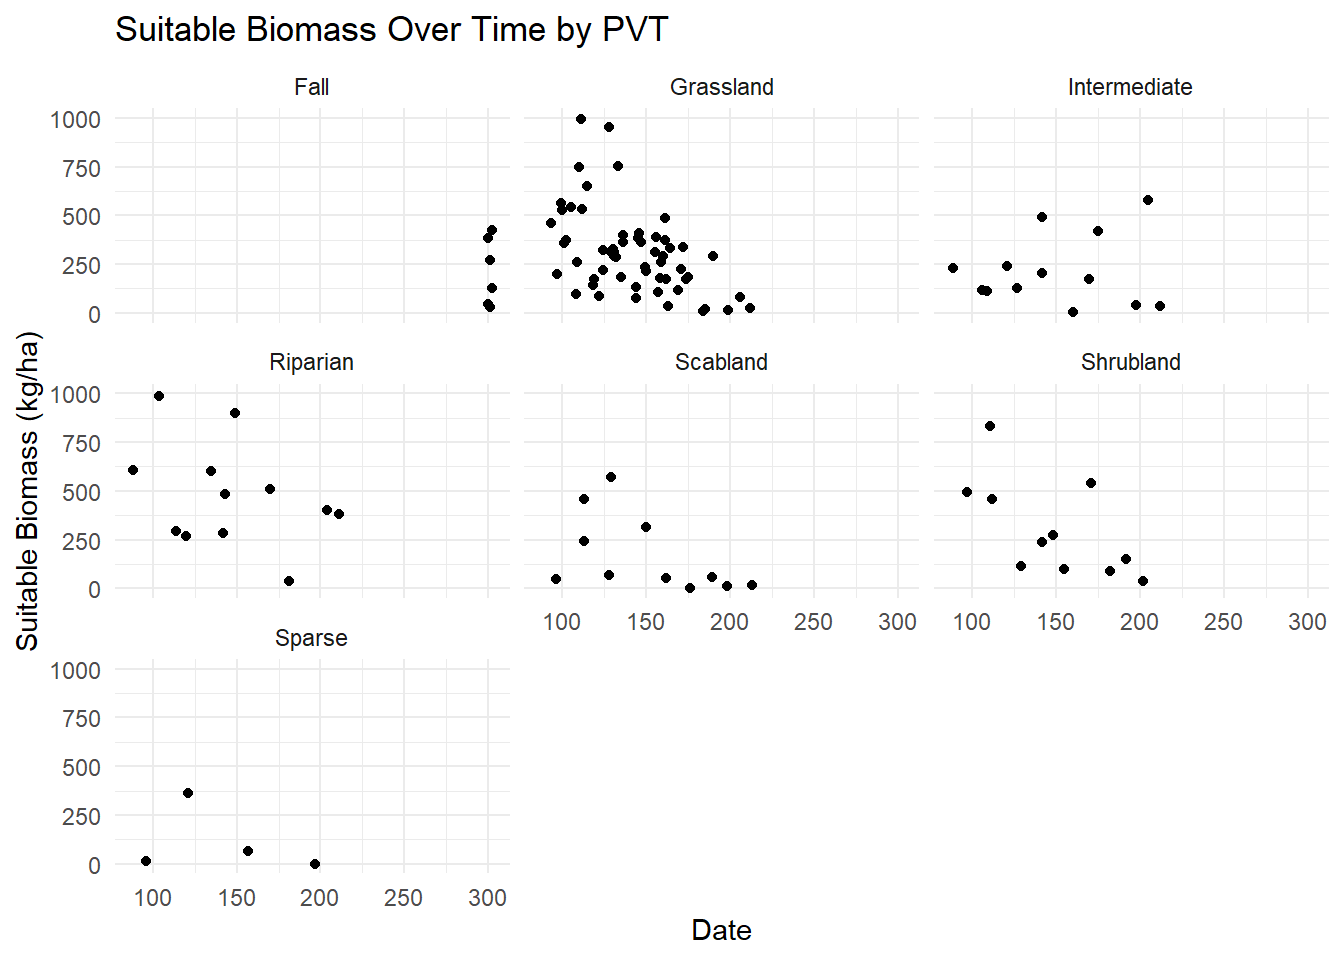
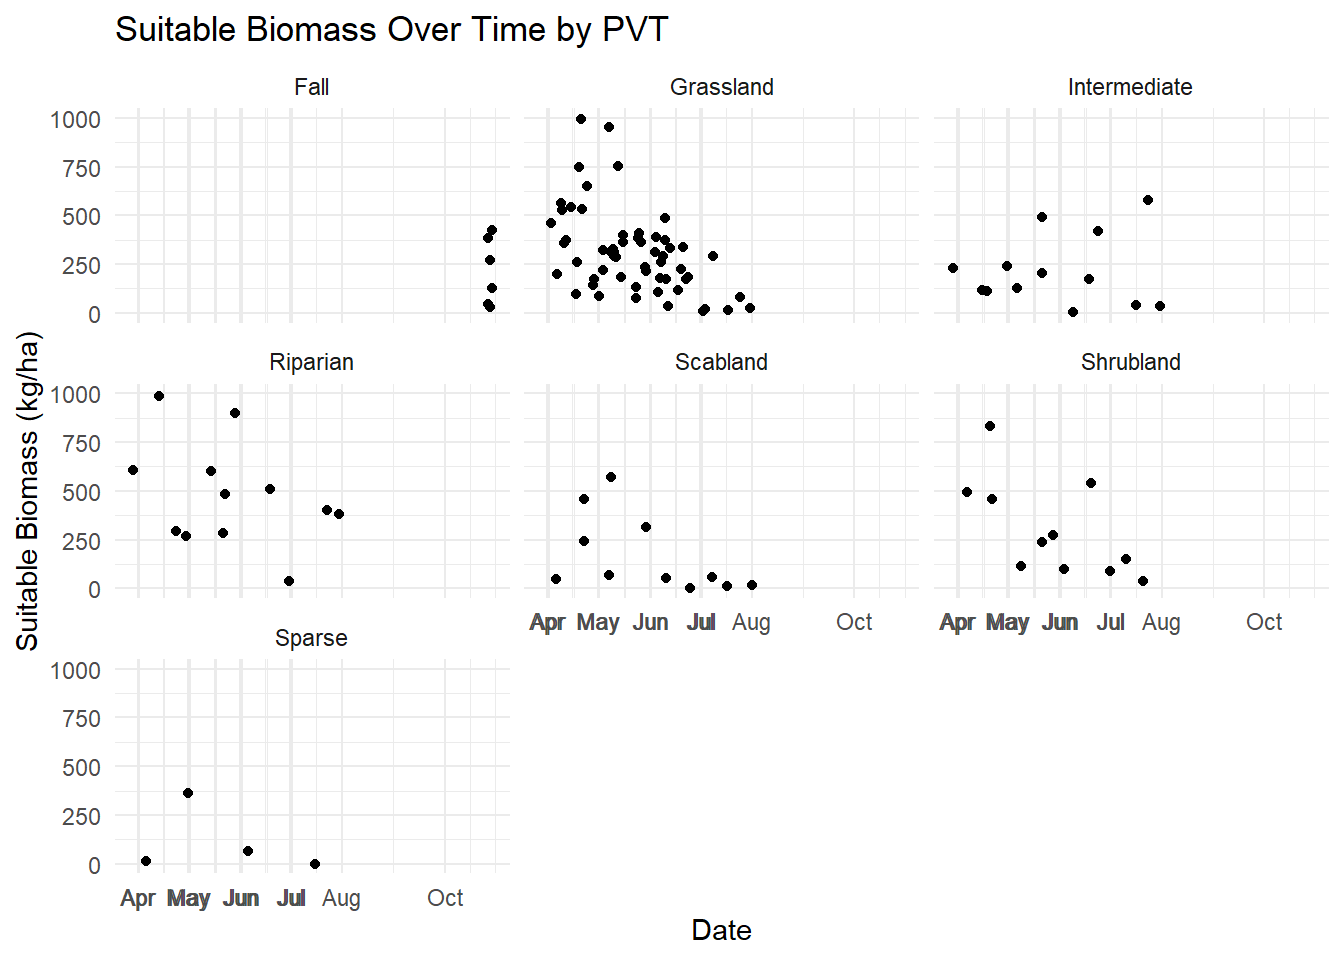
edited axis labels

Changed region(s): [[0.375, 0.625, 1.0, 0.6562], [0.0938, 0.9062, 0.2812, 0.9688], [0.2812, 0.9062, 0.375, 0.9688]]

diff --git a/docs/posts/post-with-code/suitable.biomass.plots.html b/docs/posts/post-with-code/suitable.biomass.plots.html
@@ -210,17 +210,29 @@ pre > code.sourceCode > span > a:first-child::before { text-decoration: underlin
 <span id="cb2-7"><a href="#cb2-7" aria-hidden="true" tabindex="-1"></a>  <span class="fu">select</span>(<span class="sc">-</span>PVT, <span class="sc">-</span>PVTedit) <span class="sc">%&gt;%</span> </span>
 <span id="cb2-8"><a href="#cb2-8" aria-hidden="true" tabindex="-1"></a>  <span class="fu">rename</span>(<span class="at">PVT =</span> PVT_Observed)</span>
 <span id="cb2-9"><a href="#cb2-9" aria-hidden="true" tabindex="-1"></a></span>
-<span id="cb2-10"><a href="#cb2-10" aria-hidden="true" tabindex="-1"></a><span class="fu">ggplot</span>(plot.totals, <span class="fu">aes</span>(<span class="at">x =</span> Julian_Day, <span class="at">y =</span> SuitableBiomass)) <span class="sc">+</span></span>
-<span id="cb2-11"><a href="#cb2-11" aria-hidden="true" tabindex="-1"></a>  <span class="fu">geom_point</span>() <span class="sc">+</span></span>
-<span id="cb2-12"><a href="#cb2-12" aria-hidden="true" tabindex="-1"></a>  <span class="fu">geom_line</span>(<span class="fu">aes</span>(<span class="at">group =</span> TransectID), <span class="at">alpha =</span> <span class="fl">0.4</span>) <span class="sc">+</span></span>
-<span id="cb2-13"><a href="#cb2-13" aria-hidden="true" tabindex="-1"></a>  <span class="fu">facet_wrap</span>(<span class="sc">~</span> PVT) <span class="sc">+</span>  <span class="co"># same y-axis across all panels</span></span>
-<span id="cb2-14"><a href="#cb2-14" aria-hidden="true" tabindex="-1"></a>  <span class="fu">scale_y_continuous</span>(<span class="at">limits =</span> <span class="fu">c</span>(<span class="dv">0</span>, <span class="dv">1000</span>)) <span class="sc">+</span></span>
-<span id="cb2-15"><a href="#cb2-15" aria-hidden="true" tabindex="-1"></a>  <span class="fu">theme_minimal</span>() <span class="sc">+</span></span>
-<span id="cb2-16"><a href="#cb2-16" aria-hidden="true" tabindex="-1"></a>  <span class="fu">labs</span>(</span>
-<span id="cb2-17"><a href="#cb2-17" aria-hidden="true" tabindex="-1"></a>    <span class="at">title =</span> <span class="st">"Suitable Biomass Over Time by PVT"</span>,</span>
-<span id="cb2-18"><a href="#cb2-18" aria-hidden="true" tabindex="-1"></a>    <span class="at">x =</span> <span class="st">"Date"</span>,</span>
-<span id="cb2-19"><a href="#cb2-19" aria-hidden="true" tabindex="-1"></a>    <span class="at">y =</span> <span class="st">"Suitable Biomass (kg/ha)"</span></span>
-<span id="cb2-20"><a href="#cb2-20" aria-hidden="true" tabindex="-1"></a>  )</span></code><button title="Copy to Clipboard" class="code-copy-button"><i class="bi"></i></button></pre></div>
+<span id="cb2-10"><a href="#cb2-10" aria-hidden="true" tabindex="-1"></a><span class="co"># Create month breaks based on your actual data</span></span>
+<span id="cb2-11"><a href="#cb2-11" aria-hidden="true" tabindex="-1"></a>month_breaks <span class="ot">&lt;-</span> plot.totals <span class="sc">%&gt;%</span></span>
+<span id="cb2-12"><a href="#cb2-12" aria-hidden="true" tabindex="-1"></a>  <span class="fu">mutate</span>(<span class="at">Month =</span> <span class="fu">floor_date</span>(Date, <span class="st">"month"</span>)) <span class="sc">%&gt;%</span></span>
+<span id="cb2-13"><a href="#cb2-13" aria-hidden="true" tabindex="-1"></a>  <span class="fu">distinct</span>(Month) <span class="sc">%&gt;%</span></span>
+<span id="cb2-14"><a href="#cb2-14" aria-hidden="true" tabindex="-1"></a>  <span class="fu">arrange</span>(Month) <span class="sc">%&gt;%</span></span>
+<span id="cb2-15"><a href="#cb2-15" aria-hidden="true" tabindex="-1"></a>  <span class="fu">mutate</span>(<span class="at">Julian_Day =</span> <span class="fu">yday</span>(Month),</span>
+<span id="cb2-16"><a href="#cb2-16" aria-hidden="true" tabindex="-1"></a>         <span class="at">Label =</span> <span class="fu">format</span>(Month, <span class="st">"%b"</span>))  <span class="co"># Abbreviated month name</span></span>
+<span id="cb2-17"><a href="#cb2-17" aria-hidden="true" tabindex="-1"></a></span>
+<span id="cb2-18"><a href="#cb2-18" aria-hidden="true" tabindex="-1"></a><span class="fu">ggplot</span>(plot.totals, <span class="fu">aes</span>(<span class="at">x =</span> Julian_Day, <span class="at">y =</span> SuitableBiomass)) <span class="sc">+</span></span>
+<span id="cb2-19"><a href="#cb2-19" aria-hidden="true" tabindex="-1"></a>  <span class="fu">geom_point</span>() <span class="sc">+</span></span>
+<span id="cb2-20"><a href="#cb2-20" aria-hidden="true" tabindex="-1"></a>  <span class="fu">geom_line</span>(<span class="fu">aes</span>(<span class="at">group =</span> TransectID), <span class="at">alpha =</span> <span class="fl">0.4</span>) <span class="sc">+</span></span>
+<span id="cb2-21"><a href="#cb2-21" aria-hidden="true" tabindex="-1"></a>  <span class="fu">facet_wrap</span>(<span class="sc">~</span> PVT) <span class="sc">+</span></span>
+<span id="cb2-22"><a href="#cb2-22" aria-hidden="true" tabindex="-1"></a>  <span class="fu">scale_y_continuous</span>(<span class="at">limits =</span> <span class="fu">c</span>(<span class="dv">0</span>, <span class="dv">1000</span>)) <span class="sc">+</span></span>
+<span id="cb2-23"><a href="#cb2-23" aria-hidden="true" tabindex="-1"></a>  <span class="fu">scale_x_continuous</span>(</span>
+<span id="cb2-24"><a href="#cb2-24" aria-hidden="true" tabindex="-1"></a>    <span class="at">breaks =</span> month_breaks<span class="sc">$</span>Julian_Day,</span>
+<span id="cb2-25"><a href="#cb2-25" aria-hidden="true" tabindex="-1"></a>    <span class="at">labels =</span> month_breaks<span class="sc">$</span>Label</span>
+<span id="cb2-26"><a href="#cb2-26" aria-hidden="true" tabindex="-1"></a>  ) <span class="sc">+</span></span>
+<span id="cb2-27"><a href="#cb2-27" aria-hidden="true" tabindex="-1"></a>  <span class="fu">theme_minimal</span>() <span class="sc">+</span></span>
+<span id="cb2-28"><a href="#cb2-28" aria-hidden="true" tabindex="-1"></a>  <span class="fu">labs</span>(</span>
+<span id="cb2-29"><a href="#cb2-29" aria-hidden="true" tabindex="-1"></a>    <span class="at">title =</span> <span class="st">"Suitable Biomass Over Time by PVT"</span>,</span>
+<span id="cb2-30"><a href="#cb2-30" aria-hidden="true" tabindex="-1"></a>    <span class="at">x =</span> <span class="st">"Date"</span>,</span>
+<span id="cb2-31"><a href="#cb2-31" aria-hidden="true" tabindex="-1"></a>    <span class="at">y =</span> <span class="st">"Suitable Biomass (kg/ha)"</span></span>
+<span id="cb2-32"><a href="#cb2-32" aria-hidden="true" tabindex="-1"></a>  )</span></code><button title="Copy to Clipboard" class="code-copy-button"><i class="bi"></i></button></pre></div>
 </details>
 <div class="cell-output-display">
 <div>
@@ -239,14 +251,18 @@ pre > code.sourceCode > span > a:first-child::before { text-decoration: underlin
 <div class="sourceCode cell-code" id="cb3"><pre class="sourceCode r code-with-copy"><code class="sourceCode r"><span id="cb3-1"><a href="#cb3-1" aria-hidden="true" tabindex="-1"></a><span class="fu">ggplot</span>(plot.totals, <span class="fu">aes</span>(<span class="at">x =</span> Julian_Day, <span class="at">y =</span> AveDE)) <span class="sc">+</span></span>
 <span id="cb3-2"><a href="#cb3-2" aria-hidden="true" tabindex="-1"></a>  <span class="fu">geom_point</span>() <span class="sc">+</span></span>
 <span id="cb3-3"><a href="#cb3-3" aria-hidden="true" tabindex="-1"></a>  <span class="fu">geom_hline</span>(<span class="at">yintercept =</span> <span class="fl">11.5</span>, <span class="at">linetype =</span> <span class="st">"dashed"</span>, <span class="at">color =</span> <span class="st">"red"</span>, <span class="at">size =</span> <span class="fl">0.8</span>) <span class="sc">+</span></span>
-<span id="cb3-4"><a href="#cb3-4" aria-hidden="true" tabindex="-1"></a>  <span class="fu">facet_wrap</span>(<span class="sc">~</span> PVT) <span class="sc">+</span>  <span class="co"># same y-axis across all panels</span></span>
+<span id="cb3-4"><a href="#cb3-4" aria-hidden="true" tabindex="-1"></a>  <span class="fu">facet_wrap</span>(<span class="sc">~</span> PVT) <span class="sc">+</span></span>
 <span id="cb3-5"><a href="#cb3-5" aria-hidden="true" tabindex="-1"></a>  <span class="fu">scale_y_continuous</span>(<span class="at">limits =</span> <span class="fu">c</span>(<span class="dv">9</span>, <span class="dv">14</span>)) <span class="sc">+</span></span>
-<span id="cb3-6"><a href="#cb3-6" aria-hidden="true" tabindex="-1"></a>  <span class="fu">theme_minimal</span>() <span class="sc">+</span></span>
-<span id="cb3-7"><a href="#cb3-7" aria-hidden="true" tabindex="-1"></a>  <span class="fu">labs</span>(</span>
-<span id="cb3-8"><a href="#cb3-8" aria-hidden="true" tabindex="-1"></a>    <span class="at">title =</span> <span class="st">"Average Digestible Energy Over Time by PVT"</span>,</span>
-<span id="cb3-9"><a href="#cb3-9" aria-hidden="true" tabindex="-1"></a>    <span class="at">x =</span> <span class="st">"Date"</span>,</span>
-<span id="cb3-10"><a href="#cb3-10" aria-hidden="true" tabindex="-1"></a>    <span class="at">y =</span> <span class="st">"Average DE (KJ/g)"</span></span>
-<span id="cb3-11"><a href="#cb3-11" aria-hidden="true" tabindex="-1"></a>  )</span></code><button title="Copy to Clipboard" class="code-copy-button"><i class="bi"></i></button></pre></div>
+<span id="cb3-6"><a href="#cb3-6" aria-hidden="true" tabindex="-1"></a>  <span class="fu">scale_x_continuous</span>(</span>
+<span id="cb3-7"><a href="#cb3-7" aria-hidden="true" tabindex="-1"></a>    <span class="at">breaks =</span> month_breaks<span class="sc">$</span>Julian_Day,</span>
+<span id="cb3-8"><a href="#cb3-8" aria-hidden="true" tabindex="-1"></a>    <span class="at">labels =</span> month_breaks<span class="sc">$</span>Label</span>
+<span id="cb3-9"><a href="#cb3-9" aria-hidden="true" tabindex="-1"></a>  ) <span class="sc">+</span></span>
+<span id="cb3-10"><a href="#cb3-10" aria-hidden="true" tabindex="-1"></a>  <span class="fu">theme_minimal</span>() <span class="sc">+</span></span>
+<span id="cb3-11"><a href="#cb3-11" aria-hidden="true" tabindex="-1"></a>  <span class="fu">labs</span>(</span>
+<span id="cb3-12"><a href="#cb3-12" aria-hidden="true" tabindex="-1"></a>    <span class="at">title =</span> <span class="st">"Average Digestible Energy Over Time by PVT"</span>,</span>
+<span id="cb3-13"><a href="#cb3-13" aria-hidden="true" tabindex="-1"></a>    <span class="at">x =</span> <span class="st">"Date"</span>,</span>
+<span id="cb3-14"><a href="#cb3-14" aria-hidden="true" tabindex="-1"></a>    <span class="at">y =</span> <span class="st">"Average DE (KJ/g)"</span></span>
+<span id="cb3-15"><a href="#cb3-15" aria-hidden="true" tabindex="-1"></a>  )</span></code><button title="Copy to Clipboard" class="code-copy-button"><i class="bi"></i></button></pre></div>
 </details>
 <div class="cell-output-display">
 <div>
@@ -267,12 +283,16 @@ pre > code.sourceCode > span > a:first-child::before { text-decoration: underlin
 <span id="cb4-3"><a href="#cb4-3" aria-hidden="true" tabindex="-1"></a>  <span class="fu">geom_hline</span>(<span class="at">yintercept =</span> <span class="fl">7.5</span>, <span class="at">linetype =</span> <span class="st">"dashed"</span>, <span class="at">color =</span> <span class="st">"red"</span>, <span class="at">size =</span> <span class="fl">0.8</span>) <span class="sc">+</span></span>
 <span id="cb4-4"><a href="#cb4-4" aria-hidden="true" tabindex="-1"></a>  <span class="fu">facet_wrap</span>(<span class="sc">~</span> PVT) <span class="sc">+</span></span>
 <span id="cb4-5"><a href="#cb4-5" aria-hidden="true" tabindex="-1"></a>  <span class="fu">scale_y_continuous</span>(<span class="at">limits =</span> <span class="fu">c</span>(<span class="dv">2</span>, <span class="dv">16</span>)) <span class="sc">+</span></span>
-<span id="cb4-6"><a href="#cb4-6" aria-hidden="true" tabindex="-1"></a>  <span class="fu">theme_minimal</span>() <span class="sc">+</span></span>
-<span id="cb4-7"><a href="#cb4-7" aria-hidden="true" tabindex="-1"></a>  <span class="fu">labs</span>(</span>
-<span id="cb4-8"><a href="#cb4-8" aria-hidden="true" tabindex="-1"></a>    <span class="at">title =</span> <span class="st">"Average Digestible Protien Over Time by PVT"</span>,</span>
-<span id="cb4-9"><a href="#cb4-9" aria-hidden="true" tabindex="-1"></a>    <span class="at">x =</span> <span class="st">"Date"</span>,</span>
-<span id="cb4-10"><a href="#cb4-10" aria-hidden="true" tabindex="-1"></a>    <span class="at">y =</span> <span class="st">"Average DP (g/100g)"</span></span>
-<span id="cb4-11"><a href="#cb4-11" aria-hidden="true" tabindex="-1"></a>  )</span></code><button title="Copy to Clipboard" class="code-copy-button"><i class="bi"></i></button></pre></div>
+<span id="cb4-6"><a href="#cb4-6" aria-hidden="true" tabindex="-1"></a>   <span class="fu">scale_x_continuous</span>(</span>
+<span id="cb4-7"><a href="#cb4-7" aria-hidden="true" tabindex="-1"></a>    <span class="at">breaks =</span> month_breaks<span class="sc">$</span>Julian_Day,</span>
+<span id="cb4-8"><a href="#cb4-8" aria-hidden="true" tabindex="-1"></a>    <span class="at">labels =</span> month_breaks<span class="sc">$</span>Label</span>
+<span id="cb4-9"><a href="#cb4-9" aria-hidden="true" tabindex="-1"></a>  ) <span class="sc">+</span></span>
+<span id="cb4-10"><a href="#cb4-10" aria-hidden="true" tabindex="-1"></a>  <span class="fu">theme_minimal</span>() <span class="sc">+</span></span>
+<span id="cb4-11"><a href="#cb4-11" aria-hidden="true" tabindex="-1"></a>  <span class="fu">labs</span>(</span>
+<span id="cb4-12"><a href="#cb4-12" aria-hidden="true" tabindex="-1"></a>    <span class="at">title =</span> <span class="st">"Average Digestible Protien Over Time by PVT"</span>,</span>
+<span id="cb4-13"><a href="#cb4-13" aria-hidden="true" tabindex="-1"></a>    <span class="at">x =</span> <span class="st">"Date"</span>,</span>
+<span id="cb4-14"><a href="#cb4-14" aria-hidden="true" tabindex="-1"></a>    <span class="at">y =</span> <span class="st">"Average DP (g/100g)"</span></span>
+<span id="cb4-15"><a href="#cb4-15" aria-hidden="true" tabindex="-1"></a>  )</span></code><button title="Copy to Clipboard" class="code-copy-button"><i class="bi"></i></button></pre></div>
 </details>
 <div class="cell-output-display">
 <div>

diff --git a/docs/index.html b/docs/index.html
@@ -206,7 +206,7 @@ window.Quarto = {
 
 <div class="quarto-listing quarto-listing-container-default" id="listing-listing">
 <div class="list quarto-listing-default">
-<div class="quarto-post image-right" data-index="0" data-listing-file-modified-sort="1769712584426" data-listing-reading-time-sort="4" data-listing-word-count-sort="698">
+<div class="quarto-post image-right" data-index="0" data-listing-file-modified-sort="1769713306702" data-listing-reading-time-sort="4" data-listing-word-count-sort="780">
 <div class="thumbnail"><a href="./posts/post-with-code/suitable.biomass.plots.html" class="no-external">
 
 <p class="card-img-top"><img src="posts\post-with-code\suitable.biomass.plots_files\figure-html\unnamed-chunk-2-1.png"  class="thumbnail-image card-img"/></p>
